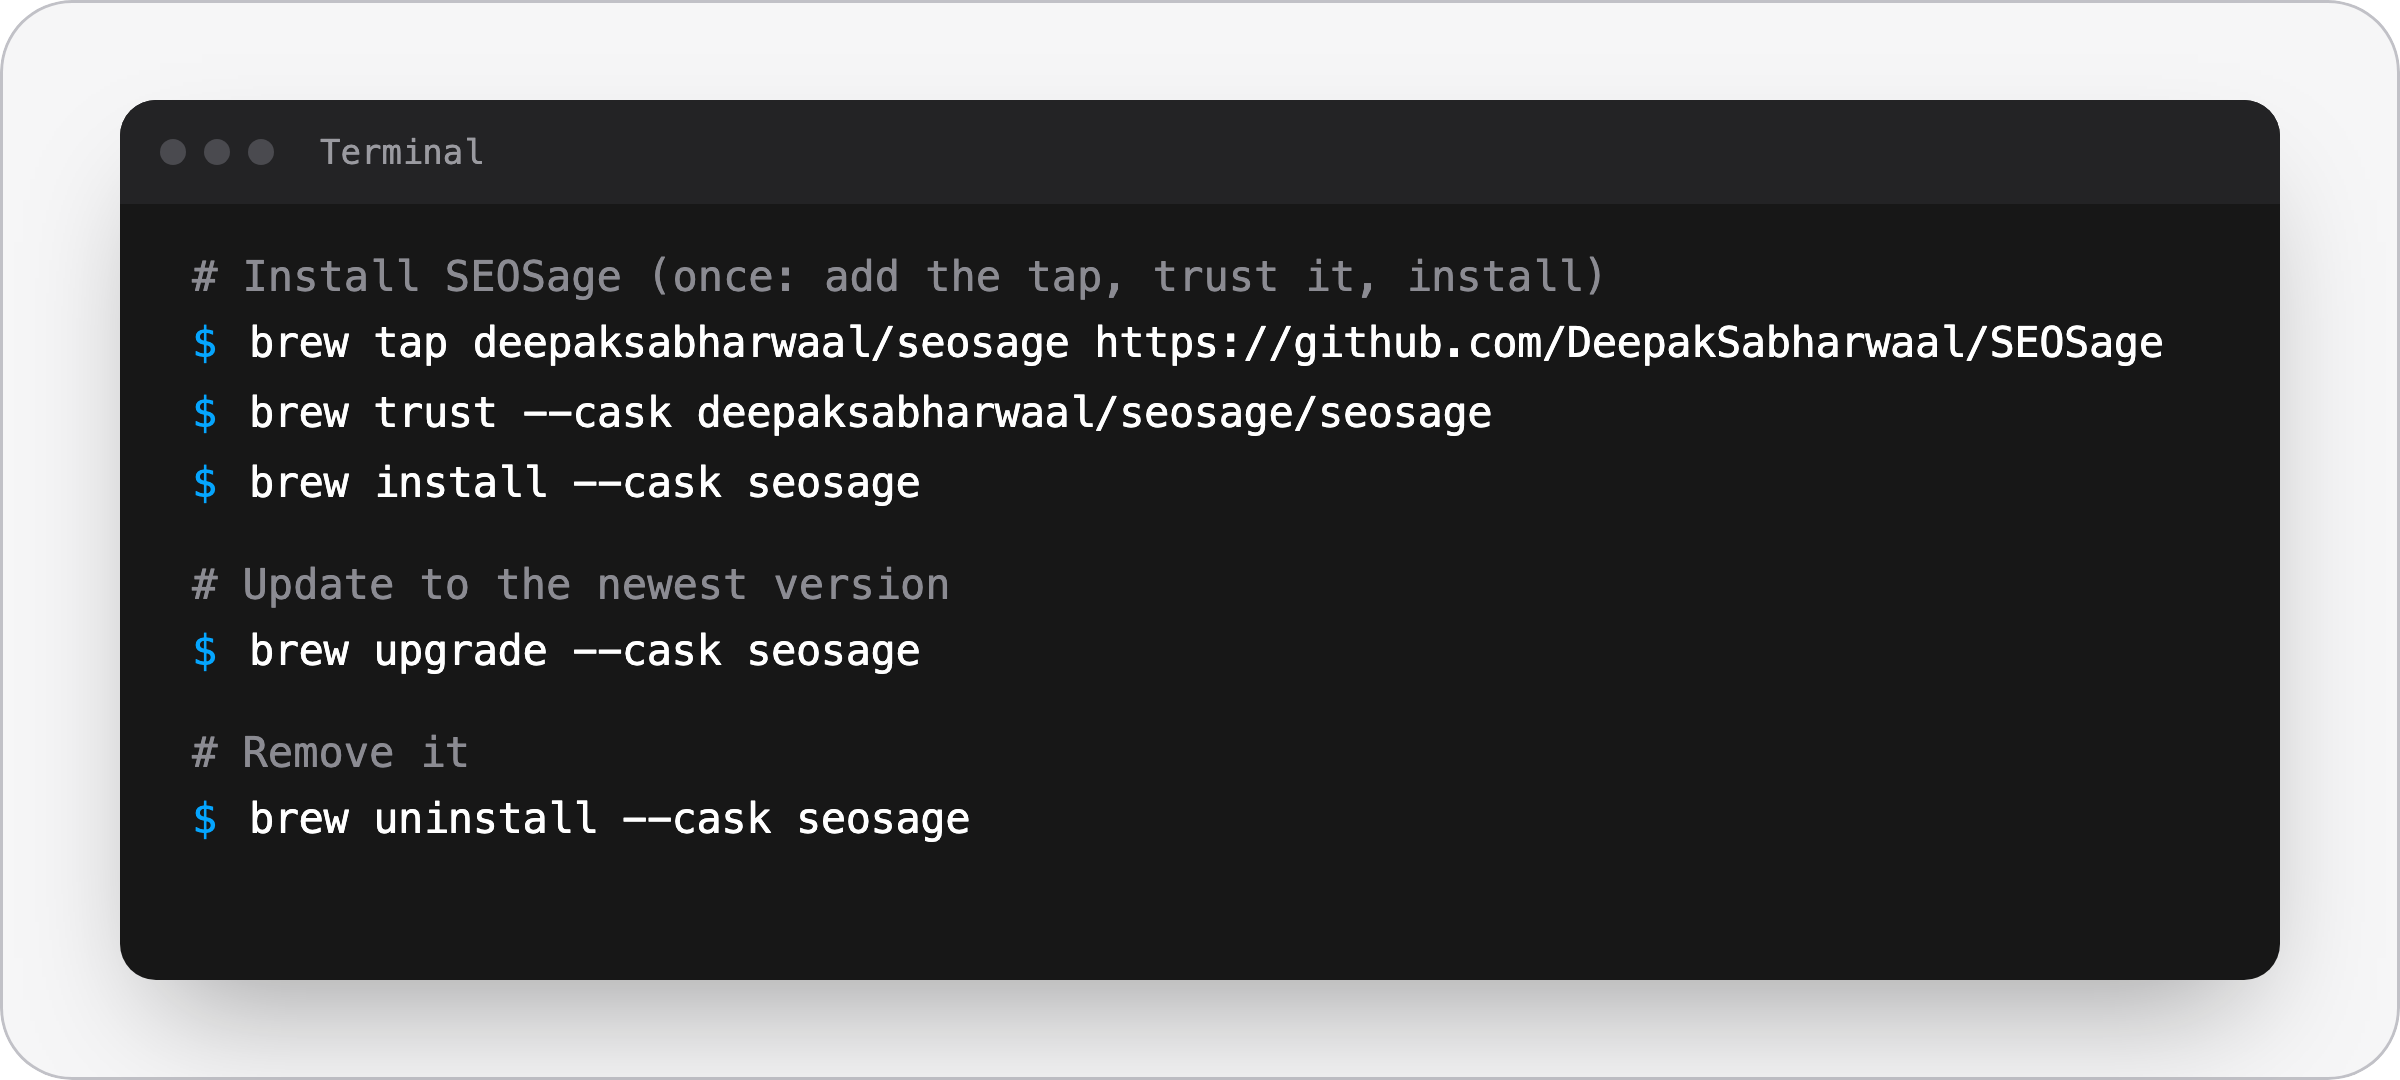
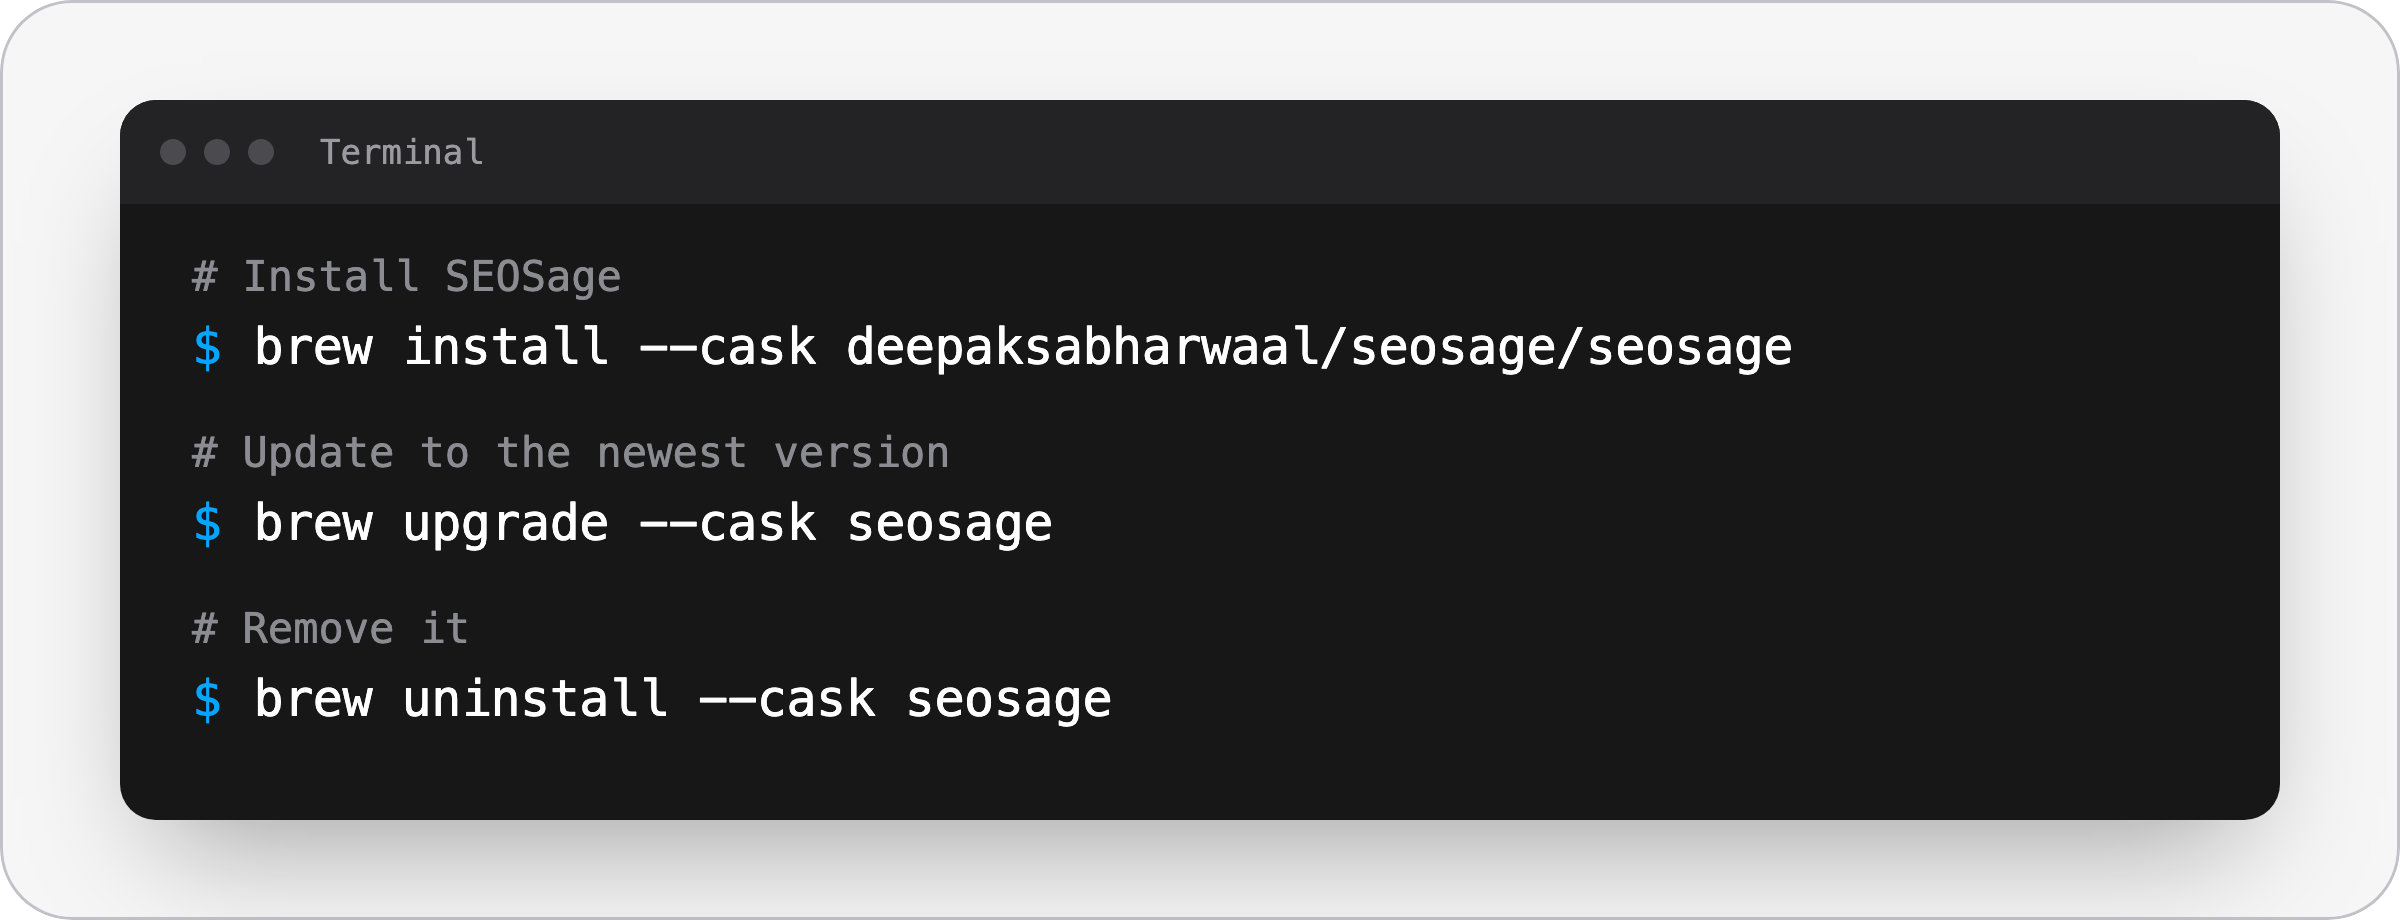
Project page: one-command Homebrew install, tap moved to homebrew-seosage

diff --git a/README.md b/README.md
@@ -1,24 +1,20 @@
 <p align="center">
-  <a href="https://seosage.co/"><img src="assets/banner.png?v=5" alt="SEOSage app for Mac: install the desktop SEO audit software with Homebrew" width="100%"></a>
+  <a href="https://seosage.co/"><img src="assets/banner.png?v=6" alt="SEOSage app for Mac: install the desktop SEO audit software with one Homebrew command" width="100%"></a>
 </p>
 
-# SEOSage app for Mac: Homebrew install
+# SEOSage: desktop SEO audit software for Mac and Windows
 
 [**SEOSage**](https://seosage.co/) is desktop SEO audit software for freelancers and small agencies. It crawls every page of your website with no page limits, finds the SEO problems, and exports client-ready reports. It runs on your own computer, so your crawl data stays with you.
 
-This repository is the official [Homebrew](https://brew.sh) tap (the `brew tap` line adds this repository once) for the SEOSage app. It only holds the install file. The app itself is commercial software and its code is not published here.
+This is the public project page. The app itself is commercial software and its code is not published here.
 
-## Install
+## Install on Mac with Homebrew
 
-<p align="center"><img src="assets/install.png?v=5" alt="Terminal showing the brew commands to install, update and remove the SEOSage app" width="80%"></p>
+<p align="center"><img src="assets/install.png?v=6" alt="Terminal showing the brew command to install, update and remove the SEOSage app" width="80%"></p>
 
 ```sh
-brew tap deepaksabharwaal/seosage https://github.com/DeepakSabharwaal/SEOSage
-brew trust --cask deepaksabharwaal/seosage/seosage
-brew install --cask seosage
+brew install --cask deepaksabharwaal/seosage/seosage
 ```
-
-The `brew trust` line is needed on Homebrew 7 and newer, which asks you to approve casks from outside the official list. On an older Homebrew without that command, skip it.
 
 Update later:
 
@@ -32,15 +28,17 @@ Uninstall:
 brew uninstall --cask seosage
 ```
 
-Works on Apple Silicon (M1, M2, M3, M4) and Intel Macs. Homebrew picks the right file for your Mac.
+Works on Apple Silicon (M1, M2, M3, M4) and Intel Macs. Homebrew picks the right file for your Mac. The install file lives in the [homebrew-seosage](https://github.com/DeepakSabharwaal/homebrew-seosage) tap.
+
+**Windows:** use the installer on the [download page](https://seosage.co/download/).
 
 ## What you get
 
 Crawl a whole site, see every issue grouped by type, click one to see the pages it affects, then export a report for your client. The screens below are from a real crawl of [marketingly.org](https://marketingly.org/).
 
-<p align="center"><img src="assets/screen-issues.png?v=5" alt="SEOSage app Issues screen listing errors, warnings and notices from a full site crawl" width="90%"></p>
+<p align="center"><img src="assets/screen-issues.png?v=6" alt="SEOSage app Issues screen listing errors, warnings and notices from a full site crawl" width="90%"></p>
 
-<p align="center"><img src="assets/screen-report.png?v=5" alt="SEOSage app Reports screen with site health score and export to CSV, PDF or PowerPoint" width="90%"></p>
+<p align="center"><img src="assets/screen-report.png?v=6" alt="SEOSage app Reports screen with site health score and export to CSV, PDF or PowerPoint" width="90%"></p>
 
 ## Licence
 
@@ -55,7 +53,3 @@ SEOSage needs a licence key, and every plan starts with a 14-day free trial. See
 - Free SEO tools: [seosage.co/tools](https://seosage.co/tools/)
 - What's new: [seosage.co/changelog](https://seosage.co/changelog/)
 - Support: [hello@seosage.co](mailto:hello@seosage.co)
-
-## About this tap
-
-The cask downloads the official installer from `seosage.co` and checks its SHA-256 before installing. SEOSage is not yet Apple-notarised, so the cask clears the macOS download warning for you after install. Windows users: use the installer on the [download page](https://seosage.co/download/).
